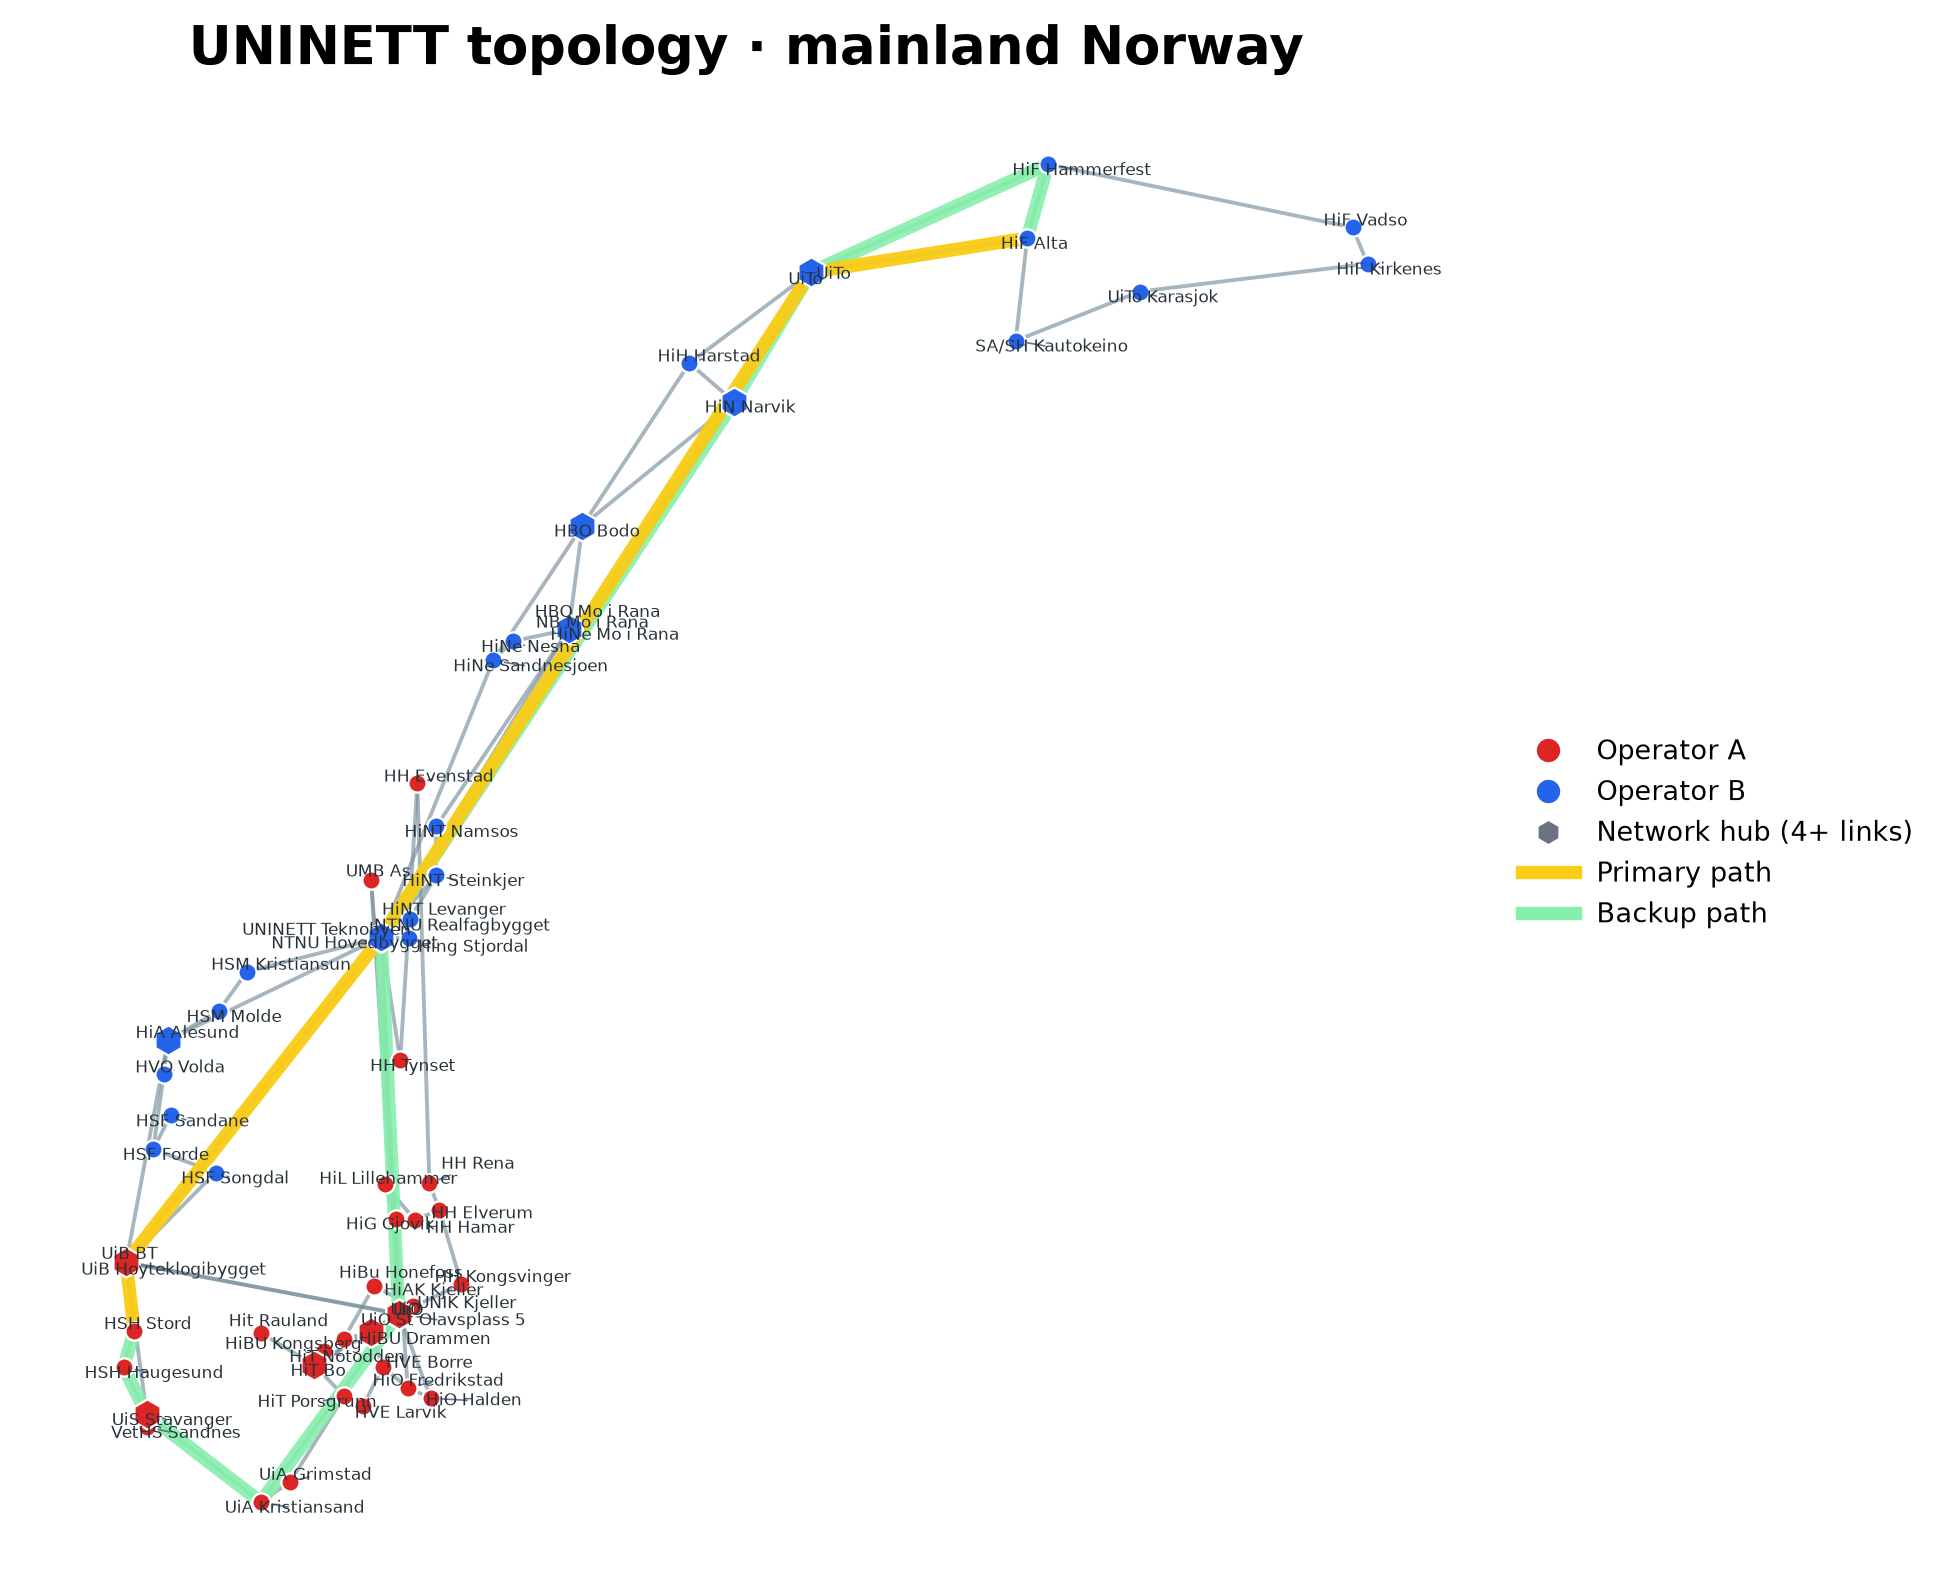
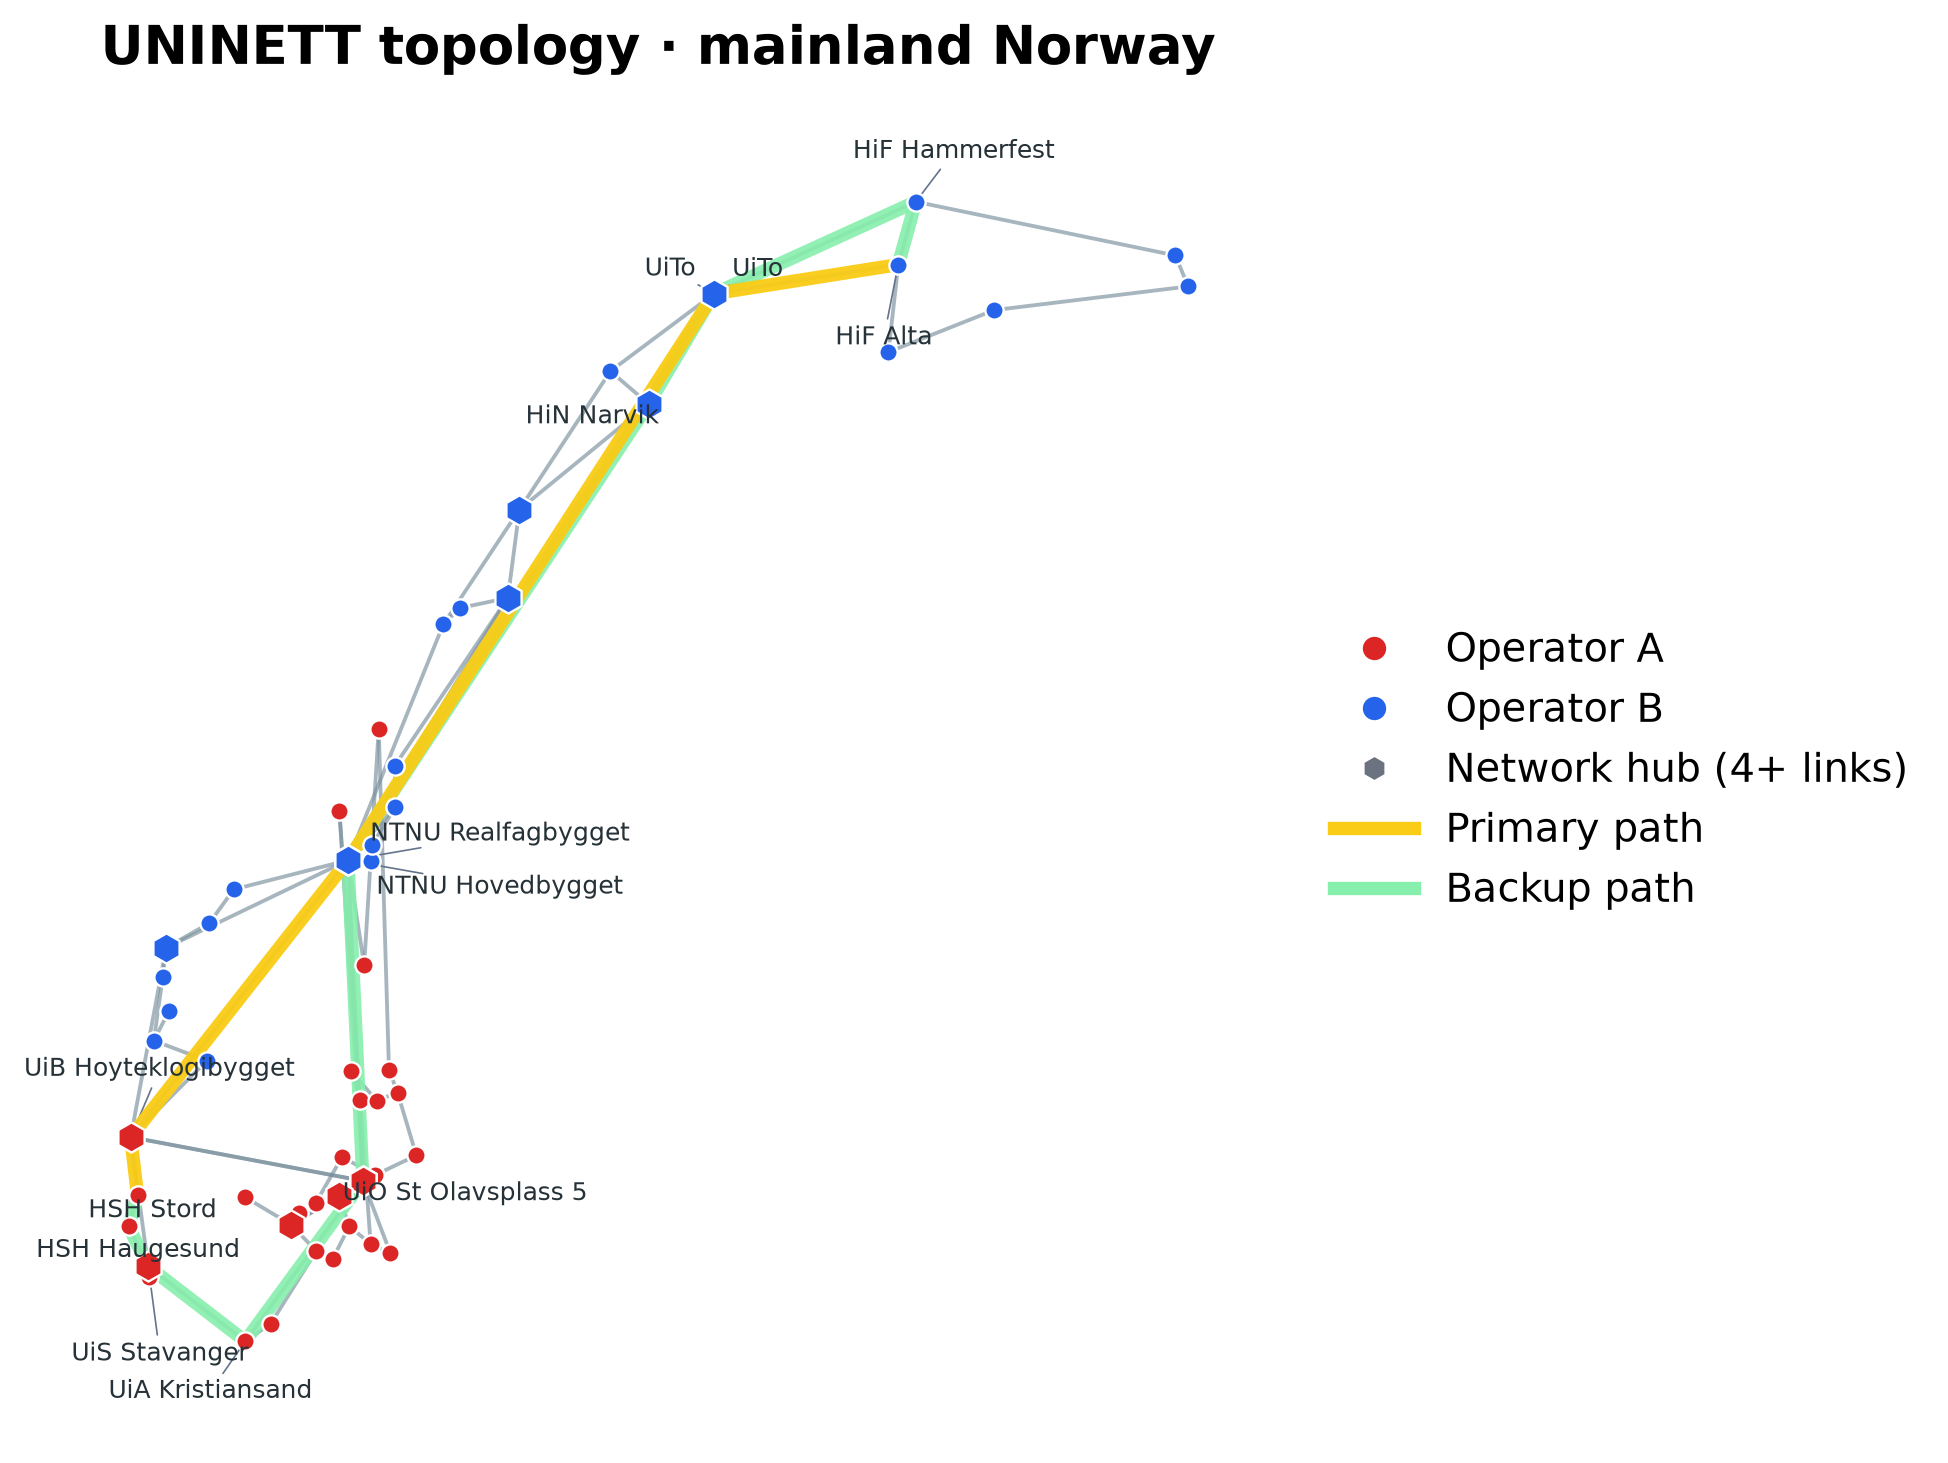
bigger text, and removed unneccessary labels from the figures

diff --git a/src/plotting.py b/src/plotting.py
@@ -80,7 +80,7 @@ def _draw_labels(
     graph: nx.Graph,
     nodes: Iterable[object],
     positions: Mapping[object, tuple[float, float]],
-    font_size: int = 7,
+    font_size: float = 7.5,
 ) -> None:
     """Draw non-overlapping labels with guide lines where needed."""
     texts = []
@@ -103,6 +103,13 @@ def _draw_labels(
         adjust_text(
             texts,
             ax=axis,
+            expand=(1.4, 1.7),
+            force_text=(1.2, 1.6),
+            force_static=(1.0, 1.4),
+            force_explode=(1.0, 1.2),
+            max_move=(100, 100),
+            ensure_inside_axes=True,
+            iter_lim=1000,
             arrowprops={"arrowstyle": "-", "color": "#64748b", "lw": 0.5},
         )
 
@@ -127,7 +134,7 @@ def _finish_figure(
             frameon=True,
             facecolor="white",
             edgecolor="none",
-            fontsize=8,
+            fontsize=12,
         )
 
     if output_file is not None:
@@ -213,7 +220,12 @@ def plot_topology(
             )
 
     if show_labels:
-        _draw_labels(axis, graph, positions.keys(), positions, font_size=5)
+        # On path comparison plots, label only nodes that occur in one of the
+        # highlighted paths.  This keeps unrelated site names out of the
+        # figure while preserving the full topology in the background.
+        path_nodes = set(primary_path or ()) | set(backup_path or ())
+        label_nodes = [node for node in positions if node in path_nodes]
+        _draw_labels(axis, graph, label_nodes, positions, font_size=7.5)
 
     handles = [
         Line2D([], [], marker="o", color="none", markerfacecolor=OPERATOR_COLORS["A"], markeredgecolor="white", markersize=8, label="Operator A"),

diff --git a/src/comparison_plotting.py b/src/comparison_plotting.py
@@ -116,7 +116,7 @@ for i, (case_name, paths) in enumerate(cases.items()):
 for path_name, color in colors.items():
     ax.plot([], [], color=color, linewidth=3, label=path_name)
 
-ax.legend(loc="upper left")
+ax.legend(loc="upper left", fontsize=12)
 
 ax.set_xticks(case_positions)
 ax.set_xticklabels(list(cases.keys()))
